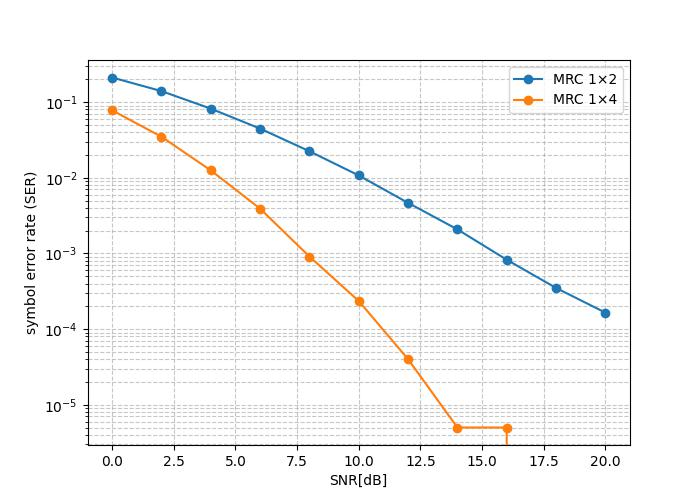
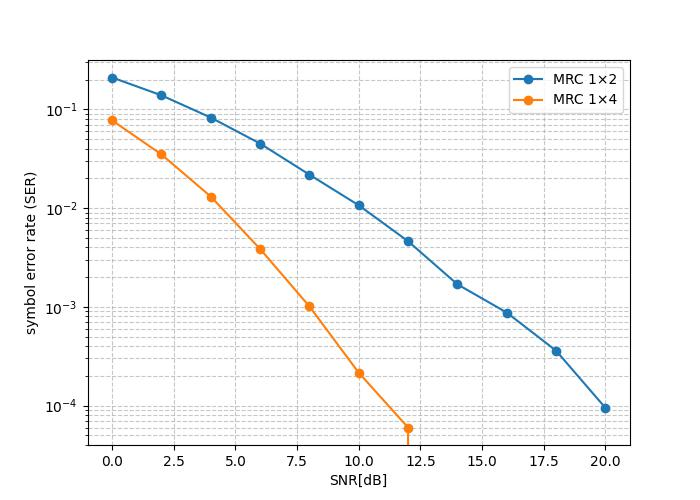
Add files via upload

diff --git a/ex4.py b/ex4.py
@@ -67,36 +67,32 @@ def simulate_sm_qpsk(snr_db_values, Nrx, Ntx, num_symbols=100000):
         
         
         # Symbol errors
-        errors = np.sum(s_hat != s) / Ntx
-        ser.append(errors / num_symbols)
+        errors = np.sum(s_hat != s)
+        ser.append(errors / s.size)
         
     return ser
 
-
-# -------------------------------------------
-# Run Simulation
-# -------------------------------------------
-SNR_dB = np.arange(0, 21, 2)
-
-results_sm = simulate_sm_qpsk(SNR_dB, 2, 2)
-results_sm_24 = simulate_sm_qpsk(SNR_dB, 2, 4)
-results_sm_42 = simulate_sm_qpsk(SNR_dB, 4, 2)
-results_sm_44 = simulate_sm_qpsk(SNR_dB, 4, 4)
-results_stc = simulate_stc_qpsk(SNR_dB, 1)
-
-# -------------------------------------------
-# Plot
-# -------------------------------------------
-plt.figure(figsize=(7,5))
-plt.semilogy(SNR_dB, results_sm, marker='o', label=f"SM 2×2")
-plt.semilogy(SNR_dB, results_sm_24, marker='o', label=f"SM 2×4")
-plt.semilogy(SNR_dB, results_sm_42, marker='o', label=f"SM 4×2")
-plt.semilogy(SNR_dB, results_sm_44, marker='o', label=f"SM 4×4")
-
-plt.semilogy(SNR_dB, results_stc, marker='o', label=f"STC 2×1")
-
-plt.grid(True, which="both", linestyle='--', alpha=0.7)
-plt.xlabel("SNR[dB]")
-plt.ylabel("symbol error rate (SER)")
-plt.legend()
-plt.savefig("ex4.jpg")
+if __name__ == "__main__":
+	# -------------------------------------------
+	# Run Simulation
+	# -------------------------------------------
+	SNR_dB = np.arange(0, 21, 2)
+	results_sm = simulate_sm_qpsk(SNR_dB, 2, 2)
+	results_sm_24 = simulate_sm_qpsk(SNR_dB, 2, 4)
+	results_sm_42 = simulate_sm_qpsk(SNR_dB, 4, 2)
+	results_sm_44 = simulate_sm_qpsk(SNR_dB, 4, 4)
+	results_stc = simulate_stc_qpsk(SNR_dB, 1)
+	# -------------------------------------------
+	# Plot
+	# -------------------------------------------
+	plt.figure(figsize=(7,5))
+	plt.semilogy(SNR_dB, results_sm, marker='o', label=f"SM 2×2")
+	plt.semilogy(SNR_dB, results_sm_24, marker='o', label=f"SM 2×4")
+	plt.semilogy(SNR_dB, results_sm_42, marker='o', label=f"SM 4×2")
+	plt.semilogy(SNR_dB, results_sm_44, marker='o', label=f"SM 4×4")
+	plt.semilogy(SNR_dB, results_stc, marker='o', label=f"STC 2×1")
+	plt.grid(True, which="both", linestyle='--', alpha=0.7)
+	plt.xlabel("SNR[dB]")
+	plt.ylabel("symbol error rate (SER)")
+	plt.legend()
+	plt.savefig("ex4.jpg")

diff --git a/ex3.py b/ex3.py
@@ -90,7 +90,7 @@ def simulate_stc_qpsk(snr_db_values, Nrx, num_symbols=1000000):
         
         # Symbol errors
         errors = np.sum(s_hat != np.squeeze(s))
-        ser.append(errors / num_symbols)
+        ser.append(errors / s.size)
         
     return ser
 

diff --git a/ex2_q2.py b/ex2_q2.py
@@ -54,7 +54,7 @@ def simulate_stc_qpsk(snr_db_values, num_symbols=200000):
         
         # Symbol errors
         errors = np.sum(s_hat != s)
-        ser.append(errors / num_symbols)
+        ser.append(errors / s.size)
         
     return ser
 
